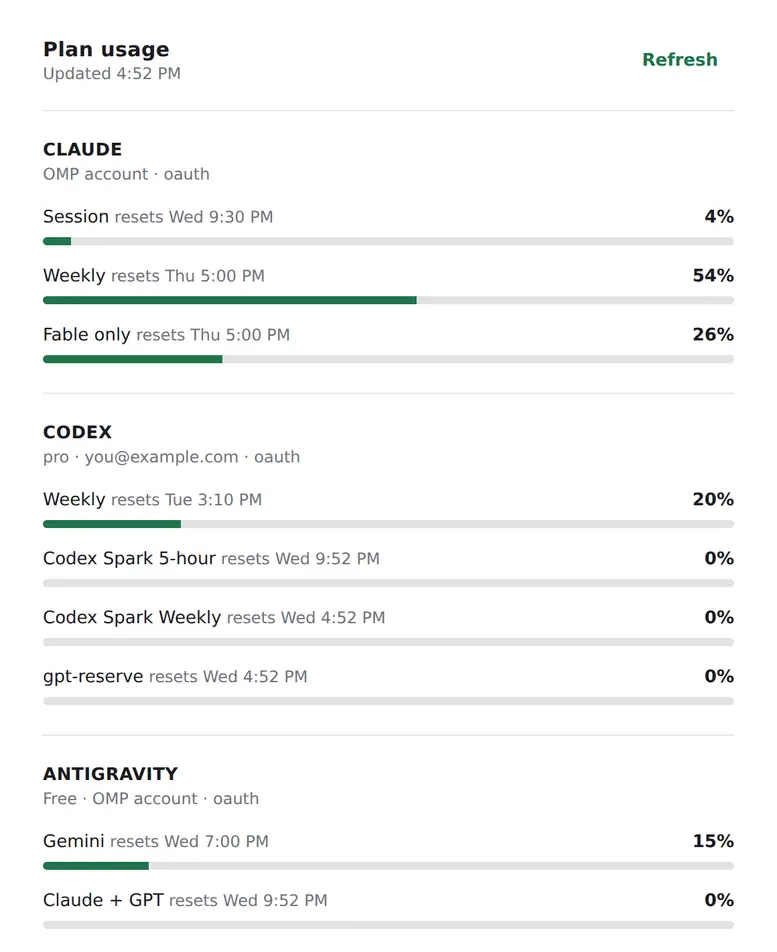
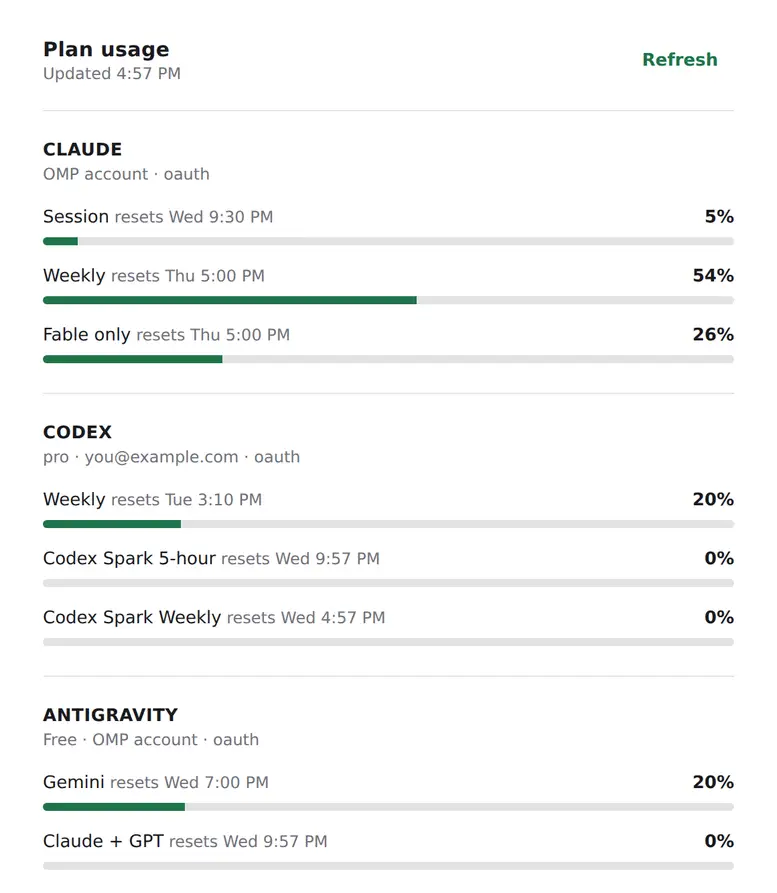
Hide internal model-pool lanes from the usage surface
Codex reports codex-base-model-inference with the title 'gpt-reserve', an
identifier-named lane that mirrors the main weekly window rather than a limit
worth planning around. Skip extra windows whose title is identifier-shaped so
named windows such as Codex Spark keep rendering, and refresh the screenshot.

diff --git a/usage.server.ts b/usage.server.ts
@@ -72,10 +72,15 @@ function normalize(providerId: ProviderId, payload: unknown): ProviderUsage {
       for (const item of extra) {
         const entry = object(item);
         if (!entry) continue;
+        const title = string(entry.title);
+        // Providers also report internal model-pool lanes such as `gpt-reserve`, whose
+        // title is an identifier rather than a quota name. Those mirror the main window
+        // and are not user-facing limits, so keep them out of the surface.
+        if (title && !/\s/.test(title) && /[-_]/.test(title)) continue;
         addWindow(
           windows,
           string(entry.id) ?? `extra-${windows.length}`,
-          string(entry.title) ?? "Additional limit",
+          title ?? "Additional limit",
           entry.window,
         );
       }

diff --git a/AGENTS.md b/AGENTS.md
@@ -41,7 +41,8 @@ tokens, so treat every change as security-relevant.
 - Bars encode a used share from zero. Do not truncate the baseline, scale by area, or rescale to
   make a value look dramatic.
 - Never fabricate, interpolate, or default a missing number. A window with no reported usage is
-  omitted; a provider failure renders as that provider's message.
+  omitted; a provider failure renders as that provider's message. Identifier-named
+  model-pool lanes are hidden because they mirror a real window; never hide a genuine limit.
 - Every window row must show timing: the absolute reset timestamp when reported, else the
   provider's reset text, else the window length.
 - Percentages shown to the user must be the provider's own values, clamped to 0-100 and rounded

diff --git a/README.md b/README.md
@@ -10,6 +10,9 @@ Each row is one quota window: the label, when it resets, the share consumed, and
 bar. Rows at 90% or above turn red. The account line names the plan, account, and which data
 source answered.
 
+Internal model-pool lanes such as `gpt-reserve` are hidden. Those are identifier-named
+mirrors of a real window rather than limits you plan around.
+
 ## Why
 
 Paseo already knows provider usage, but it lives behind a hover tooltip and a settings screen.
